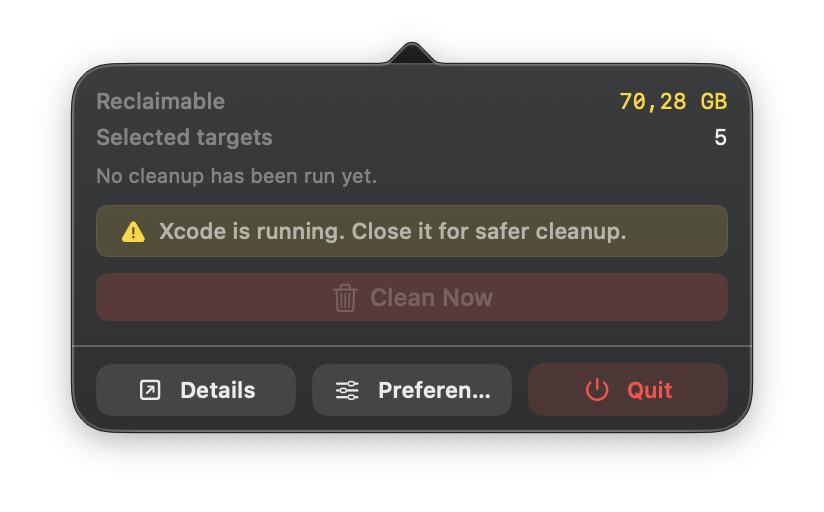
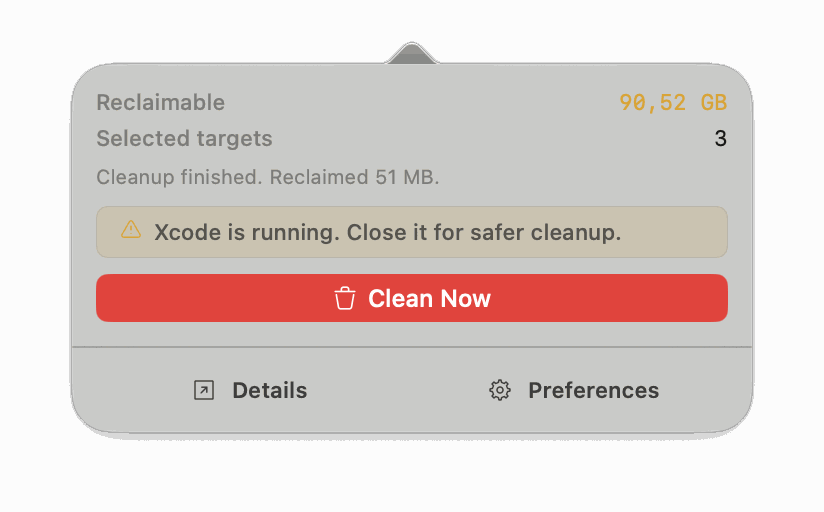
Refresh site for Transcription, Keyboard Cleaner, and new screenshots
Bring the homepage in line with the current seven-module app:

- Add Meeting Transcription and Keyboard Cleaner feature rows, update
  App Uninstaller, Xcode Cleaner, and Network Monitor copy, and mark
  direct-download-only modules.
- Rebuild the editions matrix per module and drop crash auto-restart,
  which the app does not ship.
- Replace all screenshots with current Rose-accent captures, add a menu
  bar panels section, and compress PNGs to 256 colors.
- Update support troubleshooting for System Audio Recording, model
  downloads, direct-only modules, and Keyboard Cleaner recovery.
- Update the privacy policy: audio recordings stored locally, System
  Audio Recording instead of Screen Recording, Accessibility and helper
  permissions, nettop usage, and speech model downloads from Hugging Face.

diff --git a/index.html b/index.html
@@ -4,9 +4,9 @@
   <meta charset="utf-8">
   <meta name="viewport" content="width=device-width, initial-scale=1">
   <title>MenuUtils — A modular macOS menu-bar utility</title>
-  <meta name="description" content="MenuUtils consolidates power-user macOS utilities — system monitoring, clipboard history, app uninstaller, and Xcode cleanup — into one menu-bar app.">
+  <meta name="description" content="MenuUtils consolidates power-user macOS utilities — system and network monitoring, clipboard history, on-device meeting transcription, app uninstaller, Xcode cleanup, and keyboard cleaning — into one menu-bar app.">
   <meta property="og:title" content="MenuUtils">
-  <meta property="og:description" content="A modular macOS menu-bar utility. System monitoring, clipboard history, app uninstaller, and Xcode cleanup in one app.">
+  <meta property="og:description" content="A modular macOS menu-bar utility. System monitoring, clipboard history, on-device meeting transcription, app uninstaller, Xcode cleanup, and keyboard cleaning in one app.">
   <meta property="og:type" content="website">
   <meta property="og:url" content="https://menuutils.dogukaan.dev">
   <link rel="stylesheet" href="/assets/style.css">
@@ -25,6 +25,8 @@
   <symbol id="ic-trash" viewBox="0 0 24 24"><path d="M20 9L18.005 20.3463C17.8369 21.3026 17.0062 22 16.0353 22H7.96474C6.99379 22 6.1631 21.3026 5.99496 20.3463L4 9" stroke="currentColor" stroke-linecap="round" stroke-linejoin="round"/><path d="M21 6L15.375 6M3 6L8.625 6M8.625 6V4C8.625 2.89543 9.52043 2 10.625 2H13.375C14.4796 2 15.375 2.89543 15.375 4V6M8.625 6L15.375 6" stroke="currentColor" stroke-linecap="round" stroke-linejoin="round"/></symbol>
   <symbol id="ic-code" viewBox="0 0 24 24"><path d="M13.5 6L10 18.5" stroke="currentColor" stroke-linecap="round" stroke-linejoin="round"/><path d="M6.5 8.5L3 12L6.5 15.5" stroke="currentColor" stroke-linecap="round" stroke-linejoin="round"/><path d="M17.5 8.5L21 12L17.5 15.5" stroke="currentColor" stroke-linecap="round" stroke-linejoin="round"/></symbol>
   <symbol id="ic-paste-clipboard" viewBox="0 0 24 24"><path d="M8.5 4H6C4.89543 4 4 4.89543 4 6V20C4 21.1046 4.89543 22 6 22H18C19.1046 22 20 21.1046 20 20V6C20 4.89543 19.1046 4 18 4H15.5" stroke="currentColor" stroke-linecap="round"/><path d="M8 6.4V4.5C8 4.22386 8.22386 4 8.5 4C8.77614 4 9.00422 3.77604 9.05152 3.50398C9.19968 2.65171 9.77399 1 12 1C14.226 1 14.8003 2.65171 14.9485 3.50398C14.9958 3.77604 15.2239 4 15.5 4C15.7761 4 16 4.22386 16 4.5V6.4C16 6.73137 15.7314 7 15.4 7H8.6C8.26863 7 8 6.73137 8 6.4Z" stroke="currentColor" stroke-linecap="round"/></symbol>
+  <symbol id="ic-mic" viewBox="0 0 24 24"><rect x="8" y="2" width="8" height="13" rx="4" stroke="currentColor"/><path d="M5 11C5 14.866 8.134 18 12 18C15.866 18 19 14.866 19 11M12 18V22M8 22H16" stroke="currentColor" stroke-linecap="round" stroke-linejoin="round"/></symbol>
+  <symbol id="ic-keyboard" viewBox="0 0 24 24"><rect x="2" y="5" width="20" height="14" rx="2" stroke="currentColor"/><path d="M6 9.01L6.01 8.999M10 9.01L10.01 8.999M14 9.01L14.01 8.999M18 9.01L18.01 8.999M6 12.01L6.01 11.999M18 12.01L18.01 11.999M8 15.5H16" stroke="currentColor" stroke-linecap="round" stroke-linejoin="round"/></symbol>
   <symbol id="ic-shield" viewBox="0 0 24 24"><path d="M5 18L3.13036 4.91253C3.05646 4.39524 3.39389 3.91247 3.90398 3.79912L11.5661 2.09641C11.8519 2.03291 12.1481 2.03291 12.4339 2.09641L20.096 3.79912C20.6061 3.91247 20.9435 4.39524 20.8696 4.91252L19 18C18.9293 18.495 18.5 21.5 12 21.5C5.5 21.5 5.07071 18.495 5 18Z" stroke="currentColor" stroke-linecap="round" stroke-linejoin="round"/></symbol>
 </svg>
 
@@ -52,9 +54,9 @@
     <h1>One menu bar.<br><span class="grad">Every utility</span> you reach for.</h1>
     <p class="tagline">
       MenuUtils is a modular macOS menu-bar platform that consolidates the
-      power-user tools you keep open all day — system monitoring, clipboard
-      history, app uninstaller, and Xcode cleanup — into a
-      single, calm, native app.
+      power-user tools you keep open all day — system and network monitoring,
+      clipboard history, on-device meeting transcription, app and Xcode cleanup,
+      and a keyboard cleaning mode — into a single, calm, native app.
     </p>
     <div class="cta-row">
       <a class="btn btn-primary" data-release-download href="https://github.com/darkbringer1/menuutils/releases/download/v0.0.41/MenuUtils-0.0.41.dmg"><svg class="icon" viewBox="0 0 24 24" aria-hidden="true"><use href="#ic-download"/></svg> Download for Mac</a>
@@ -63,7 +65,7 @@
     <span class="spec-line">macOS 26.0 or later · Apple Silicon</span>
 
     <div class="hero-facts">
-      <div><strong>5</strong> modules</div>
+      <div><strong>7</strong> modules</div>
       <div><strong>0</strong> accounts</div>
       <div><strong>0</strong> telemetry</div>
       <div>1 status item</div>
@@ -71,7 +73,7 @@
   </div>
 
   <div class="hero-shot">
-    <img src="/assets/screenshots/hero-stacked-modules.png" alt="MenuUtils menu bar panel showing Network Monitor, App Uninstaller, and Xcode Cleaner stacked in a single dropdown" width="824" height="1232" loading="eager" data-zoomable>
+    <img src="/assets/screenshots/hero-stacked-modules.png" alt="MenuUtils menu bar panel with App Uninstaller, Xcode Cleaner, and Keyboard Cleaner stacked in a single dropdown" width="824" height="1230" loading="eager" data-zoomable>
   </div>
 </section>
 
@@ -80,12 +82,12 @@
   <div class="section-head">
     <div class="eyebrow">The modules</div>
     <h2>What's inside</h2>
-    <p>Five modules, one host app. Each lives in the menu bar and can be turned on or off independently — actual panels from the running app, not mockups.</p>
+    <p>Seven modules, one host app. Each lives in the menu bar and can be turned on or off independently — actual panels from the running app, not mockups.</p>
   </div>
 
   <div class="feature-row">
     <div class="feature-shot">
-      <img src="/assets/screenshots/system-monitor-detail.png" alt="System Monitor detail window showing per-core CPU utilization, GPU load, and memory pressure" loading="lazy" data-zoomable>
+      <img src="/assets/screenshots/system-monitor-detail.png" alt="System Monitor window with CPU history and 18 per-core gauges, GPU utilization and VRAM, memory breakdown, and uptime, thermal state, and load average" width="1304" height="2804" loading="lazy" data-zoomable>
     </div>
     <div class="feature-copy">
       <h3><svg class="icon" viewBox="0 0 24 24" aria-hidden="true"><use href="#ic-cpu"/></svg> System Monitor</h3>
@@ -95,18 +97,20 @@
         <li>Fan speed &amp; temperature sensors</li>
         <li>Memory purge to reclaim RAM</li>
       </ul>
+      <span class="pill feature-edition">Direct download only</span>
     </div>
   </div>
 
   <div class="feature-row reverse">
     <div class="feature-shot">
-      <img src="/assets/screenshots/network-monitor-detail.png" alt="Network Monitor detail window showing a day of upload and download throughput as a line chart" loading="lazy" data-zoomable>
+      <img src="/assets/screenshots/network-monitor-detail.png" alt="Network Monitor window charting the last hour of download and upload on a hotspot, with line, bar, and area chart options and total, average, and peak speed" width="1504" height="1408" loading="lazy" data-zoomable>
     </div>
     <div class="feature-copy">
       <h3><svg class="icon" viewBox="0 0 24 24" aria-hidden="true"><use href="#ic-wifi"/></svg> Network Monitor</h3>
       <p>Live upload/download throughput in the menu bar, with hour/day/week/month history and per-interface breakdowns whenever you switch between Wi-Fi, Ethernet, and hotspot.</p>
       <ul class="feature-list">
         <li>Live speed with compaction-tiered history</li>
+        <li>Top apps by live download &amp; upload</li>
         <li>Per-connection-type usage totals</li>
         <li>Line, bar, and area chart views</li>
       </ul>
@@ -115,7 +119,7 @@
 
   <div class="feature-row">
     <div class="feature-shot">
-      <img src="/assets/screenshots/clipboard-manager.png" alt="Clipboard Manager showing searchable clipboard history with content-type filters" loading="lazy" data-zoomable>
+      <img src="/assets/screenshots/clipboard-manager.png" alt="Clipboard Manager panel with searchable history, filters for text, links, email, code, files, images, and cards, a blurred sensitive entry, and a preview of the selected image" width="1960" height="1400" loading="lazy" data-zoomable>
     </div>
     <div class="feature-copy">
       <h3><svg class="icon" viewBox="0 0 24 24" aria-hidden="true"><use href="#ic-paste-clipboard"/></svg> Clipboard Manager</h3>
@@ -129,23 +133,39 @@
   </div>
 
   <div class="feature-row reverse">
-    <div class="feature-shot">
-      <img src="/assets/screenshots/app-uninstaller-detail.png" alt="App Uninstaller window listing installed applications with reclaimable size, sorted largest first" loading="lazy" data-zoomable>
+    <div class="feature-shot feature-shot-compact">
+      <img src="/assets/screenshots/transcription-popover.png" alt="Transcription menu bar panel in Call mode with microphone and system audio both ready, a Start Transcription button, and an on-device processing note" width="824" height="758" loading="lazy" data-zoomable>
     </div>
     <div class="feature-copy">
-      <h3><svg class="icon" viewBox="0 0 24 24" aria-hidden="true"><use href="#ic-trash"/></svg> App Uninstaller</h3>
-      <p>See every installed app sorted by size before you decide what goes. Moves the app bundle and its support files, caches, preferences, and containers to Trash — user-selected folders only.</p>
+      <h3><svg class="icon" viewBox="0 0 24 24" aria-hidden="true"><use href="#ic-mic"/></svg> Meeting Transcription</h3>
+      <p>Transcribe a call or an in-person conversation as it happens, or import a recording you already have. Your microphone and system audio are recorded as separate lanes, so what you said and what the other side said never blur together — and speech is recognized on your Mac with Apple Speech or downloadable Parakeet models.</p>
       <ul class="feature-list">
-        <li>Size, name, or date sort across all apps</li>
-        <li>Support files, caches &amp; containers included</li>
-        <li>Nothing scanned outside folders you grant</li>
+        <li>Live captions, then a final pass rebuilt from the saved audio</li>
+        <li>Import audio &amp; video files, re-transcribe in another language</li>
+        <li>Call-mode echo suppression &amp; remote speaker separation</li>
       </ul>
     </div>
   </div>
 
   <div class="feature-row">
+    <div class="feature-shot">
+      <img src="/assets/screenshots/preferences-app-uninstaller.png" alt="App Uninstaller settings showing granted access to application and library folders, optional Full Disk Access and App Management, and the optional privileged helper" width="2166" height="2334" loading="lazy" data-zoomable>
+    </div>
+    <div class="feature-copy">
+      <h3><svg class="icon" viewBox="0 0 24 24" aria-hidden="true"><use href="#ic-trash"/></svg> App Uninstaller</h3>
+      <p>See every installed app sorted by size before you decide what goes. Moves the app bundle and its support files, caches, preferences, and containers to Trash. When a leftover is owned by root, an optional helper finishes the job — and when something can't be removed, you're told exactly why.</p>
+      <ul class="feature-list">
+        <li>Size, name, or date sort across all apps</li>
+        <li>Support files, caches &amp; containers included</li>
+        <li>Optional helper that can only move files to Trash</li>
+      </ul>
+      <span class="pill feature-edition">Direct download only</span>
+    </div>
+  </div>
+
+  <div class="feature-row reverse">
     <div class="feature-shot feature-shot-compact">
-      <img src="/assets/screenshots/xcode-cleaner-popover.png" alt="Xcode Cleaner menu bar popover showing 70.28 GB reclaimable across 5 selected targets" loading="lazy" data-zoomable>
+      <img src="/assets/screenshots/xcode-cleaner-popover.png" alt="Xcode Cleaner menu bar panel showing 90.52 GB reclaimable across 3 selected targets, with a warning that Xcode is running" width="824" height="512" loading="lazy" data-zoomable>
     </div>
     <div class="feature-copy">
       <h3><svg class="icon" viewBox="0 0 24 24" aria-hidden="true"><use href="#ic-code"/></svg> Xcode Cleaner</h3>
@@ -153,8 +173,41 @@
       <ul class="feature-list">
         <li>Reclaim total shown before cleanup</li>
         <li>Blocks cleanup while Xcode is running</li>
-        <li>Reaches caches only via a granted bookmark</li>
+        <li>Touches only the Xcode folders it lists</li>
       </ul>
+    </div>
+  </div>
+
+  <div class="feature-row">
+    <div class="feature-shot">
+      <img src="/assets/screenshots/preferences-keyboard-cleaner.png" alt="Keyboard Cleaner settings with the Control-Option-Command-U unlock shortcut, cleaning duration and soft lock time limit choices, Accessibility granted, and recovery rules" width="2166" height="2334" loading="lazy" data-zoomable>
+    </div>
+    <div class="feature-copy">
+      <h3><svg class="icon" viewBox="0 0 24 24" aria-hidden="true"><use href="#ic-keyboard"/></svg> Keyboard Cleaner</h3>
+      <p>Wipe down your keyboard without typing into whatever is open. Clean Keyboard blocks keys, modifiers, and media keys for a timed session while the pointer stays free to hit Stop. Soft Lock covers every display until you press your unlock shortcut — a quick screen cover, not a replacement for the macOS lock screen.</p>
+      <ul class="feature-list">
+        <li>Timed cleaning sessions, 30 seconds to 5 minutes</li>
+        <li>Soft Lock with a custom unlock shortcut (default ⌃⌥⌘U)</li>
+        <li>Fails open: sleep, screen lock, or lost access restores input</li>
+      </ul>
+      <span class="pill feature-edition">Direct download only</span>
+    </div>
+  </div>
+</section>
+
+<!-- Menu bar panels -->
+<section class="block container">
+  <div class="section-head">
+    <div class="eyebrow">Menu bar</div>
+    <h2>A click away</h2>
+    <p>Every module opens a compact panel straight from the menu bar — live numbers and the one action you need — with Details one more click away when you want the full window.</p>
+  </div>
+  <div class="grid grid-2 grid-panels">
+    <div class="config-shot">
+      <img src="/assets/screenshots/system-monitor-popover.png" alt="System Monitor menu bar panel with CPU and GPU history, memory pressure with a Release RAM button, and free disk space" width="824" height="1230" loading="lazy" data-zoomable>
+    </div>
+    <div class="config-shot">
+      <img src="/assets/screenshots/network-monitor-popover.png" alt="Network Monitor menu bar panel showing live download and upload speed on a hotspot, speed history, and the top network consumers" width="824" height="1002" loading="lazy" data-zoomable>
     </div>
   </div>
 </section>
@@ -164,14 +217,14 @@
   <div class="section-head">
     <div class="eyebrow">Preferences</div>
     <h2>Yours to configure</h2>
-    <p>Every module ships with its own settings — menu bar display, thresholds, shortcuts — plus one place to see exactly what each module can access.</p>
+    <p>Every module ships with its own settings — menu bar display, thresholds, and a global shortcut to open it from anywhere — plus one place to see exactly what each module can access.</p>
   </div>
   <div class="grid grid-2">
     <div class="config-shot">
-      <img src="/assets/screenshots/preferences-appearance.png" alt="Preferences window showing six accent theme choices: Amber, Ocean, Forest, Violet, Graphite, and Rose" loading="lazy" data-zoomable>
+      <img src="/assets/screenshots/preferences-transcription.png" alt="Transcription settings with In Person and Call modes, language selection, live caption models, and final transcription models including Apple Speech and Parakeet" width="2166" height="2334" loading="lazy" data-zoomable>
     </div>
     <div class="config-shot">
-      <img src="/assets/screenshots/preferences-modules.png" alt="Preferences window listing all six modules with individual enable toggles" loading="lazy" data-zoomable>
+      <img src="/assets/screenshots/preferences-network-monitor.png" alt="Network Monitor settings with a global shortcut, menu bar display toggles, font and icon size, speed units, and color themes, next to all seven modules enabled in the sidebar" width="2166" height="2334" loading="lazy" data-zoomable>
     </div>
   </div>
 </section>
@@ -181,7 +234,7 @@
   <div class="section-head">
     <div class="eyebrow">Editions</div>
     <h2>Two editions, one codebase</h2>
-    <p>MenuUtils ships on two lanes. The direct download is the fuller product; the Mac App Store edition is sandboxed and trimmed where the sandbox forbids.</p>
+    <p>MenuUtils ships on two lanes. The direct download is the complete product; the Mac App Store edition is sandboxed and leaves out the modules that need access the sandbox can't grant.</p>
   </div>
   <div class="table-wrap">
     <table class="matrix">
@@ -189,13 +242,14 @@
         <tr><th>Capability</th><th>Direct download</th><th>Mac App Store</th></tr>
       </thead>
       <tbody>
-        <tr><td class="cap">CPU / memory / disk / GPU monitoring</td><td class="yes">Yes</td><td class="yes">Yes</td></tr>
-        <tr><td class="cap">Fan speed &amp; temperature sensors</td><td class="yes">Yes</td><td class="no">No</td></tr>
-        <tr><td class="cap">Memory purge</td><td class="yes">Yes</td><td class="no">No</td></tr>
-        <tr><td class="cap">Global clipboard shortcut</td><td class="yes">Yes</td><td class="yes">Yes</td></tr>
-        <tr><td class="cap">Crash auto-restart</td><td class="yes">Yes</td><td class="no">No</td></tr>
+        <tr><td class="cap">System Monitor — CPU, GPU, memory, disk, sensors, memory purge</td><td class="yes">Yes</td><td class="no">No</td></tr>
+        <tr><td class="cap">Network Monitor</td><td class="yes">Yes</td><td class="yes">Yes</td></tr>
+        <tr><td class="cap">Clipboard Manager &amp; global shortcuts</td><td class="yes">Yes</td><td class="yes">Yes</td></tr>
+        <tr><td class="cap">Meeting Transcription — microphone &amp; system audio</td><td class="yes">Yes</td><td class="yes">Yes</td></tr>
+        <tr><td class="cap">App Uninstaller &amp; root-owned leftover cleanup</td><td class="yes">Yes</td><td class="no">No</td></tr>
+        <tr><td class="cap">Xcode Cleaner</td><td class="yes">Yes</td><td class="yes">Yes</td></tr>
+        <tr><td class="cap">Keyboard Cleaner &amp; Soft Lock</td><td class="yes">Yes</td><td class="no">No</td></tr>
         <tr><td class="cap">Self-update (Sparkle)</td><td class="yes">Yes</td><td class="no">Via App Store</td></tr>
-        <tr><td class="cap">App uninstaller &amp; Xcode cleanup</td><td class="yes">Yes</td><td class="yes">Yes</td></tr>
         <tr><td class="cap">Sandboxed</td><td class="no">No</td><td class="yes">Yes</td></tr>
         <tr><td class="cap">Notarized &amp; stapled</td><td class="yes">Yes</td><td class="yes">Yes</td></tr>
       </tbody>
@@ -213,7 +267,7 @@
   <div class="grid grid-2">
     <div class="card card-featured">
       <h3><svg class="icon" viewBox="0 0 24 24" aria-hidden="true"><use href="#ic-download"/></svg> Direct download</h3>
-      <p>The full edition with sensors, memory purge, crash auto-restart, and Sparkle self-updates. Notarized Developer ID build.</p>
+      <p>The full edition with all seven modules — including System Monitor, App Uninstaller, and Keyboard Cleaner — and Sparkle self-updates. Notarized Developer ID build.</p>
       <div class="cta-row" style="margin-top:16px;">
         <a class="btn btn-primary" data-release-download href="https://github.com/darkbringer1/menuutils/releases/download/v0.0.41/MenuUtils-0.0.41.dmg">Get the latest DMG</a>
         <a class="btn btn-secondary" href="https://github.com/darkbringer1/menuutils/releases">All releases</a>
@@ -221,7 +275,7 @@
     </div>
     <div class="card">
       <h3><svg class="icon" viewBox="0 0 24 24" aria-hidden="true"><use href="#ic-shopping-bag"/></svg> Mac App Store</h3>
-      <p>The sandboxed edition. Sandboxed-safe features only; updates through the App Store.</p>
+      <p>The sandboxed edition with Network Monitor, Clipboard Manager, Meeting Transcription, and Xcode Cleaner. Updates through the App Store.</p>
       <div class="cta-row" style="margin-top:16px;">
         <span class="pill">Coming soon</span>
       </div>
@@ -258,7 +312,7 @@
   <div class="section-head">
     <div class="eyebrow">Privacy</div>
     <h2>Private by design</h2>
-    <p>MenuUtils does not collect, transmit, or share personal data. Clipboard history stays on your Mac. No accounts, no analytics, no tracking SDKs.</p>
+    <p>MenuUtils does not collect, transmit, or share personal data. Clipboard history, meeting recordings, and transcripts stay on your Mac, and speech is recognized on-device. No accounts, no analytics, no tracking SDKs.</p>
   </div>
   <a class="btn btn-secondary" href="/privacy"><svg class="icon" viewBox="0 0 24 24" aria-hidden="true"><use href="#ic-shield"/></svg> Read the privacy policy</a>
 </section>

diff --git a/privacy.html b/privacy.html
@@ -27,12 +27,13 @@
 
 <article class="prose">
   <h1>Privacy Policy</h1>
-  <p class="meta">Effective date: 2026-08-18</p>
+  <p class="meta">Effective date: 2026-09-17</p>
 
   <p class="lede">
     MenuUtils is a macOS menu-bar utility. The short version: <strong>MenuUtils
     does not collect, transmit, or share personal data. Everything you do in
-    the app stays on your Mac.</strong>
+    the app stays on your Mac.</strong> The app only goes online to check for
+    updates and to download speech models you choose to use.
   </p>
 
   <h2>Data we do not collect</h2>
@@ -54,18 +55,22 @@
     <thead><tr><th>Feature</th><th>What is stored</th><th>Where</th></tr></thead>
     <tbody>
       <tr><td>Clipboard Manager</td><td>Clipboard history entries you copy</td><td>On-device SQLite database (GRDB)</td></tr>
-      <tr><td>Meeting Transcription</td><td>Transcripts and session metadata</td><td>On-device SQLite database (GRDB)</td></tr>
+      <tr><td>Meeting Transcription</td><td>Transcripts, session metadata, and separate audio recordings of your microphone, system audio, or imported files</td><td>Files in the app's Application Support folder</td></tr>
+      <tr><td>Speech models</td><td>Speech recognition and speaker separation models you download</td><td>On-device model cache</td></tr>
       <tr><td>Preferences</td><td>Theme, per-module enablement, settings</td><td><code>UserDefaults</code></td></tr>
       <tr><td>Impact ledger</td><td>Aggregate counts (GB saved, items processed)</td><td>On-device storage</td></tr>
     </tbody>
   </table>
-  <p>The Clipboard Manager and Meeting Transcription features can hold sensitive content (for example, text you copy, or meeting audio you transcribe). This content is processed and stored <strong>only on your Mac</strong>. You can delete it at any time from within each module's settings.</p>
+  <p>The Clipboard Manager and Meeting Transcription features can hold sensitive content (for example, text you copy, or meeting audio you transcribe). This content is processed and stored <strong>only on your Mac</strong>. You can delete it at any time from within each module — deleting a meeting removes both its transcript and its audio recordings.</p>
 
   <h2>On-device processing</h2>
   <p>All processing happens on your Mac:</p>
   <ul>
-    <li><strong>Speech recognition</strong> in Meeting Transcription uses Apple's Speech framework with on-device recognition enabled. Live audio is captured by ScreenCaptureKit and transcribed locally; <strong>audio is never sent to a server</strong> for transcription.</li>
-    <li><strong>File inspection</strong> (App Uninstaller, Xcode Cleaner, Network Monitor) only reads files in folders you explicitly grant access to through macOS security-scoped bookmarks. The app cannot read files you have not granted access to.</li>
+    <li><strong>Speech recognition</strong> in Meeting Transcription runs locally. Your microphone and your Mac's system audio are captured as separate tracks, then transcribed with Apple's Speech framework (with on-device recognition required) or with Parakeet models running on your Mac through Core ML. Speaker separation also runs locally. <strong>Audio and transcripts are never sent to a server.</strong></li>
+    <li><strong>Imported recordings</strong> are copied into the meeting's local archive (audio only — video frames are not kept) and transcribed the same way.</li>
+    <li><strong>File inspection</strong> (App Uninstaller, Xcode Cleaner) only looks at application bundles, their support files, and Xcode developer folders. In the Mac App Store edition, it can only read folders you explicitly grant through macOS security-scoped bookmarks. In the direct download, deeper scanning uses the optional Full Disk Access and App Management permissions described below.</li>
+    <li><strong>Network Monitor</strong> reads per-app byte counters from the macOS <code>nettop</code> tool to show which apps use the network. It never inspects the content of your traffic.</li>
+    <li><strong>Keyboard Cleaner</strong> (direct download) sees key events only to block them and to recognize your unlock shortcut. Keystrokes are not recorded or stored.</li>
   </ul>
 
   <h2>Permissions the app requests</h2>
@@ -73,11 +78,14 @@
   <table>
     <thead><tr><th>Permission</th><th>Purpose</th></tr></thead>
     <tbody>
-      <tr><td>Microphone</td><td>Capture live audio for meeting transcription</td></tr>
-      <tr><td>Screen Recording</td><td>Capture system audio from meeting apps</td></tr>
-      <tr><td>Speech Recognition</td><td>Turn live audio into a transcript on-device</td></tr>
-      <tr><td>User-Selected File Access</td><td>Read and manage folders you choose (App Uninstaller, Xcode Cleaner)</td></tr>
-      <tr><td>App Management</td><td>Move selected application bundles to Trash (App Uninstaller)</td></tr>
+      <tr><td>Microphone</td><td>Capture your side of a conversation for meeting transcription</td></tr>
+      <tr><td>System Audio Recording</td><td>Capture the other participants in a call for meeting transcription</td></tr>
+      <tr><td>Speech Recognition</td><td>Transcribe on-device with Apple's speech engine, including languages covered only by offline dictation</td></tr>
+      <tr><td>User-Selected File Access</td><td>Read and manage folders you choose (Mac App Store edition)</td></tr>
+      <tr><td>Full Disk Access (optional)</td><td>Find support files in protected Library locations (App Uninstaller, direct download)</td></tr>
+      <tr><td>App Management (optional)</td><td>Move selected application bundles to Trash (App Uninstaller, direct download)</td></tr>
+      <tr><td>Accessibility</td><td>Block keyboard input during a cleaning session or soft lock (Keyboard Cleaner), and the clipboard shortcut in the direct download</td></tr>
+      <tr><td>Login Items &amp; Extensions (optional)</td><td>Approve the administrator helper that moves root-owned leftovers to your Trash (App Uninstaller, direct download)</td></tr>
     </tbody>
   </table>
   <p>Each permission is requested only when you enable the relevant feature, and each can be revoked at any time in <strong>System Settings → Privacy &amp; Security</strong>.</p>
@@ -91,7 +99,13 @@
   </ul>
   <p>None of the information accessed through these APIs is sent off-device.</p>
 
-  <h2>Software updates (direct-distribution build only)</h2>
+  <h2>Network connections</h2>
+  <p>MenuUtils makes only the connections below. None of them send personal data, clipboard content, audio, or transcripts.</p>
+
+  <h3>Speech model downloads</h3>
+  <p>Apple Speech uses language assets that macOS downloads and manages from Apple. If you choose a Parakeet model, or turn on speaker identification, MenuUtils downloads the model files from <a href="https://huggingface.co">Hugging Face</a> when you first use them. These are standard HTTPS file downloads; like any web request, they reveal your IP address to the host. After a model is downloaded, it runs entirely on your Mac.</p>
+
+  <h3>Software updates (direct-distribution build only)</h3>
   <p>The version of MenuUtils distributed directly from our website checks for updates using <a href="https://sparkle-project.org">Sparkle</a>. To check for updates, the app makes a standard HTTPS request to the update feed URL on our website. The only information exposed by this request is standard HTTP metadata (such as your IP address and a generic user-agent string) that any web request reveals to the host. <strong>No usage data, identifiers, or clipboard/transcript content is ever sent.</strong></p>
   <p>The Mac App Store version does not include this update mechanism; it updates through the App Store.</p>
 

diff --git a/support.html b/support.html
@@ -41,7 +41,7 @@
 
   <h2>First-run setup</h2>
   <p>MenuUtils lives in the menu bar. On first launch you'll be guided through enabling the modules you want and granting any permissions they need. Permissions can always be changed later in <strong>MenuUtils → Preferences → Permissions</strong> or in <strong>System Settings → Privacy &amp; Security</strong>.</p>
-  <p>Modules that read files (App Uninstaller, Xcode Cleaner) ask you to pick the folders they may access via macOS security-scoped bookmarks. They cannot read folders you have not granted.</p>
+  <p>In the direct build, App Uninstaller needs <strong>Full Disk Access</strong> and <strong>App Management</strong> to read other apps' data and move app bundles to Trash; Keyboard Cleaner needs <strong>Accessibility</strong>. In the App Store build, Xcode Cleaner asks you to pick the folders it may access via macOS security-scoped bookmarks and cannot read folders you have not granted.</p>
 
   <h2>Common issues</h2>
 
@@ -53,11 +53,14 @@
   <h3>Clipboard shortcut (⌘⇧V) doesn't work</h3>
   <p>The direct build uses an Accessibility event tap; grant <strong>Accessibility</strong> permission in System Settings → Privacy &amp; Security. The App Store build uses a Carbon hot key and does not need Accessibility access.</p>
 
-  <h3>Fan speed or temperature not showing</h3>
-  <p>Sensor reads require the direct (non-sandboxed) build. This is expected — the Mac App Store edition does not show SMC sensors.</p>
+  <h3>System Monitor, App Uninstaller, or Keyboard Cleaner is missing</h3>
+  <p>These modules need access the App Store sandbox does not allow, so they are only available in the direct download. Keyboard Cleaner is also off by default — turn it on in Preferences.</p>
 
   <h3>Transcription produces no text</h3>
-  <p>Grant <strong>Microphone</strong>, <strong>Screen Recording</strong> (for system audio), and <strong>Speech Recognition</strong> permissions. On-device recognition must be available for your selected language; pick a supported locale in Meeting Transcription settings.</p>
+  <p>Grant <strong>Microphone</strong> and, for calls, <strong>System Audio Recording</strong> in System Settings → Privacy &amp; Security → Screen &amp; System Audio Recording. Apple Speech also needs <strong>Speech Recognition</strong>. The selected model must support your language: some languages are only available once their offline dictation assets are enabled in System Settings, and Parakeet models must be downloaded in Meeting Transcription settings first.</p>
+
+  <h3>Keyboard input stays blocked</h3>
+  <p>Clean Keyboard ends on its own when the timer runs out, and you can click <strong>Stop</strong> in the on-screen panel or the menu bar at any time. Soft Lock ends when you press your unlock shortcut (default ⌃⌥⌘U) or when its time limit is reached. Putting the Mac to sleep, locking the screen, or revoking Accessibility also restores input immediately.</p>
 
   <h2>Report a bug</h2>
   <p>Email <a href="mailto:menuutils@dogukaan.dev">menuutils@dogukaan.dev</a> with:</p>

diff --git a/assets/style.css b/assets/style.css
@@ -732,3 +732,9 @@ body.screenshot-viewer-open { overflow: hidden; }
 @media (prefers-color-scheme: light) {
   .err::before { background: radial-gradient(34rem 22rem at 50% 0%, rgba(225,29,72,.07), transparent 66%); }
 }
+
+/* Edition note under a feature's bullet list (e.g. "Direct download only") */
+.feature-copy .feature-edition { margin-top: 18px; }
+/* Menu bar panel pairs have different heights: center each panel instead of stretching it */
+.grid-panels .config-shot { align-items: center; justify-content: center; padding: var(--pad); }
+.grid-panels .config-shot .screenshot-button { width: auto; }
